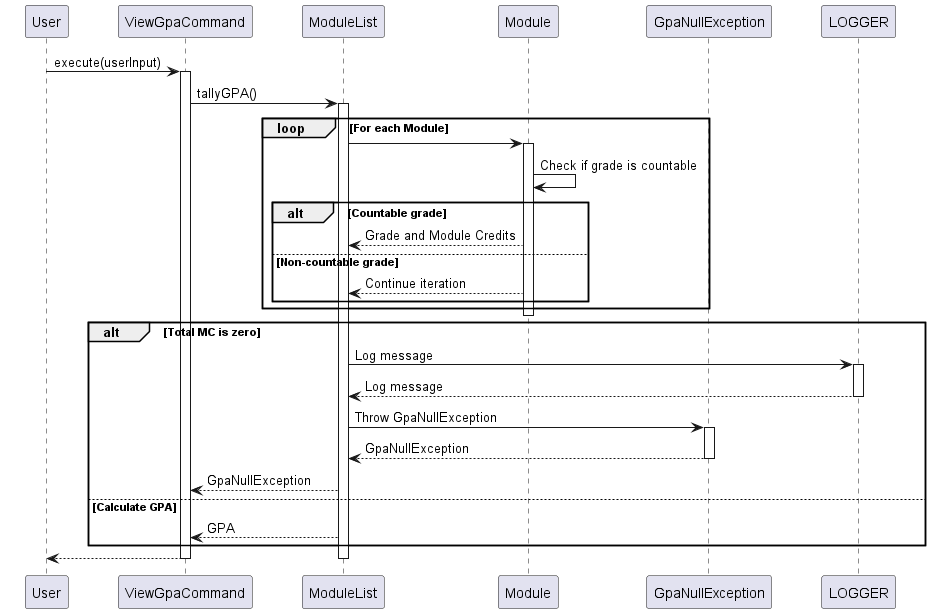
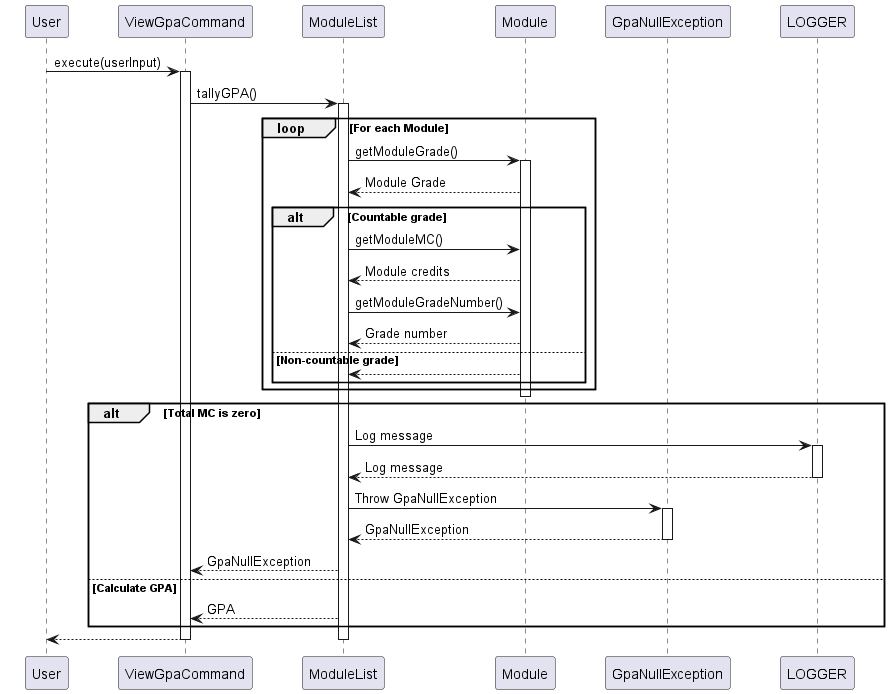
Update DG with desired GPA implementation. Amended ViewGpaCommand sequence diagram

diff --git a/docs/DeveloperGuide.md b/docs/DeveloperGuide.md
@@ -645,8 +645,33 @@ stop.
 
 If (GPA to attain) calculated is more than 5 or less than 0, it means that it is not feasible to reach the desired GPA.
 
-If (GPA to attain) is feasible, we can find a combination of grades that
+If (GPA to attain) is feasible, we will try to find the easiest way to achieve desired GPA. As there are many different 
+combinations, we will just work with two grades closest to (gpa to attain), the one directly above (named upperBound) 
+and directly below (named lowerBound).
 
+For example, if (GPA to attain) is 4.25, then upperBound will be "A-" (grade = 4.5), and lowerBound will be "B+" (grade
+= 4.0).
+
+Note:
+- Assume the remaining modules to be taken are all 4 MCs
+
+Initialise a variable, mockGPA, to keep track of the future GPA. mockGPA is initialised to lowerBound grade value.
+
+Using a while loop:
+- Checks if mockGPA is above (GPA to attain)
+- If yes, we will need one more upperBound grade
+- Else, the user can just take one more lowerBound grade
+- Update mockGPA
+- Stop the loop once total MCs is reached
+
+After the final iteration, mockGPA could be below (GPA to attain) as adding one more lowerBound grade can push mockGPA 
+to be lower than (GPA to attain). To fix this, we just need to increment number of upperBound by 1 and decrement number
+of lowerBound by 1.
+
+With this, we can find the least number of upperBound grade the user need to attain to achieve their desired GPA.
+
+Below is the sequence diagram of the entire function:
+![Desired GPA Sequence Diagram](diagrams/DesiredGpaSequence.png)
 
 
 
